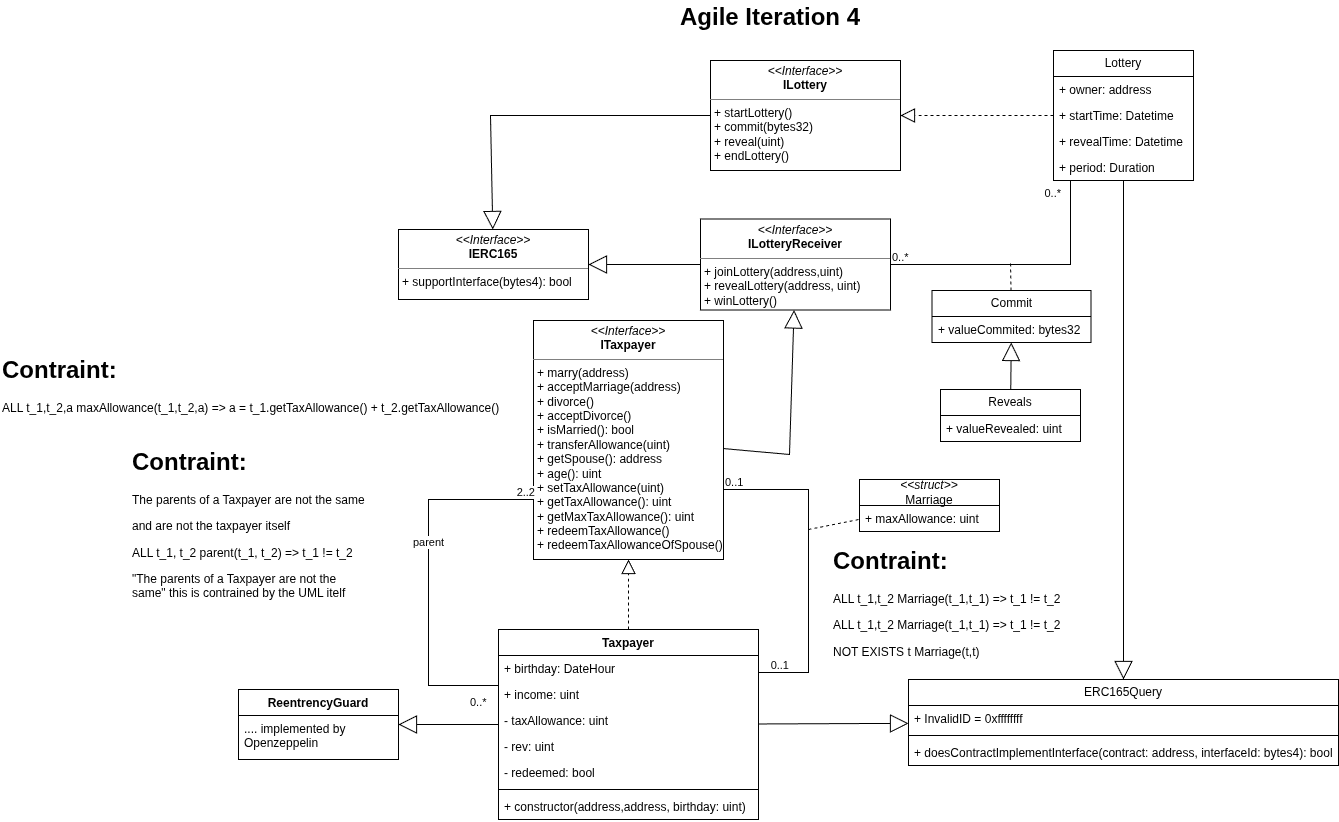
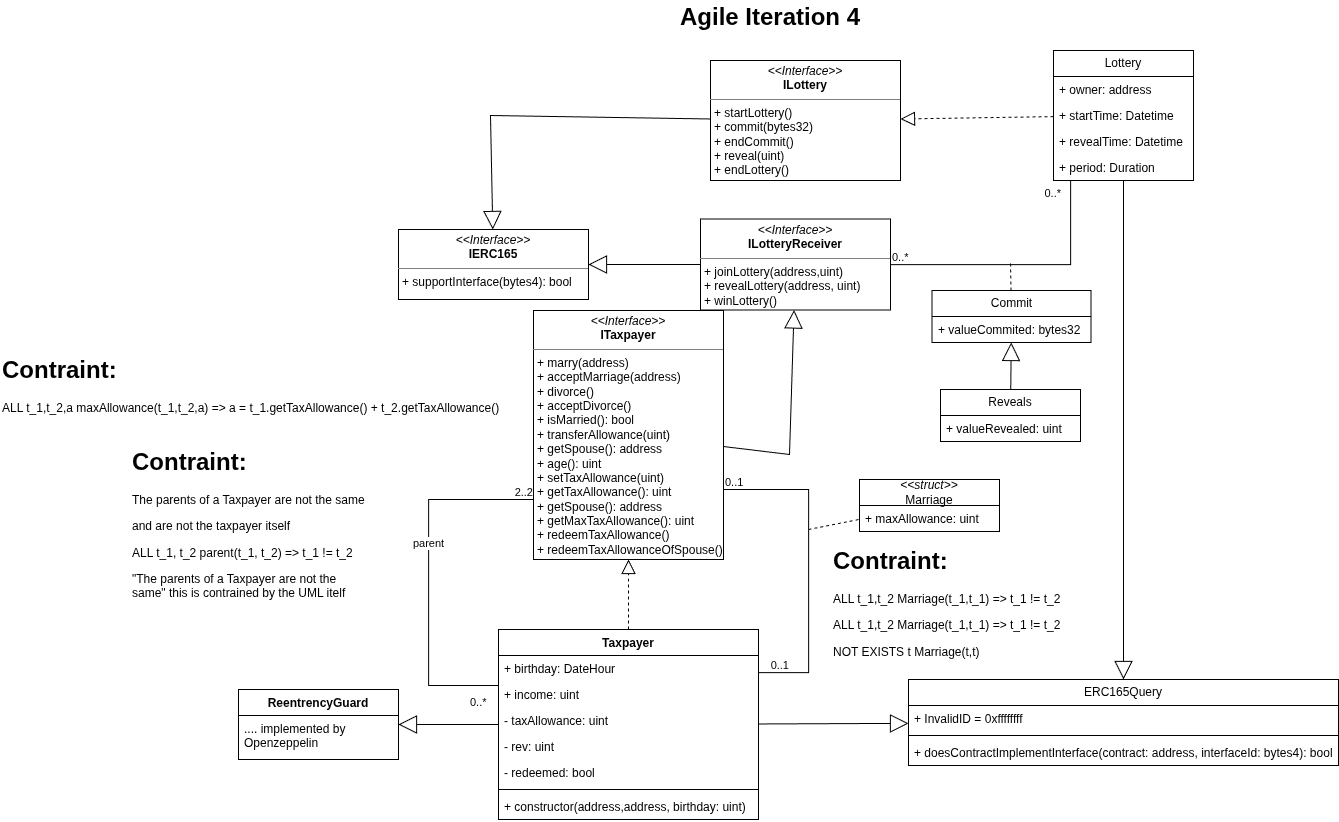
roba

diff --git a/design/report/main.tex b/design/report/main.tex
@@ -387,10 +387,19 @@ per poter chiamare il metodo `redeemTaxAllowance`.
 
 \begin{figure}[htbp]
 	\centerline{\includegraphics[width=0.50\textwidth]{design/analysis/iter4.png}}
-	\caption{UML Class Diagram of a Token.}
+	\caption{Nella fase di design della metodolia Agile iterazione numero 4, è stata aggiunta la modellazione della Lotteria. Una lotteria deve implementare lo standard ERC165, in più deve
+		implementare i seguenti metodi: startLottery, commit, endCommit, reveal, endLottery. È stata migliorata l'implementazione in modo che la lotteria non sia "usa e getta", ma invece può essere
+		reiniziata quante volte si vuole. È stato implementato il design pattern di una macchina a stati finiti. Ogni fase è rappresentata da uno stato, dove in un certo stato è possibile fare solo determinate operazioni.
+		Questo migliora l'information flow della lotteria, rendendo più difficile per i taxpayer barare. L'owner della lotteria decide in quale stato si deve trovare la lotteria. Nella fase di commit i Taxpayer possono fare i loro commit e solo nella fase di rivelazione
+		possono rivelare i loro valori. Questo comportamento viene mostrato nella figura \ref{uml:lottery}. In più ogni lotteria interagisce solo con l'interfaccia ILotteryReceiver, quindi i Taxpayer devono implentare questa interfaccia.}
 	\label{uml:agile4}
 \end{figure}
 
+\begin{figure}[htbp]
+	\centerline{\includegraphics[width=0.50\textwidth]{design/analysis/lottery.png}}
+	\caption{UML State Diagram of the Lottery.}
+	\label{uml:lottery}
+\end{figure}
 
 \subsection{Progettazione}
 